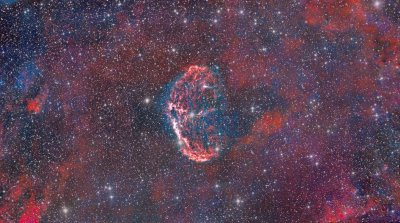
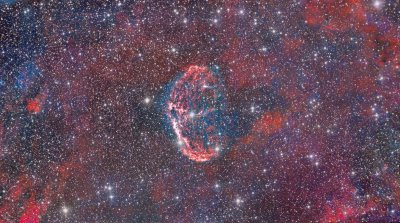
Deploy Web App da Album Astronomico

diff --git a/index.html b/index.html
@@ -748,8 +748,8 @@
         "sensore": "Nikon D3200",
         "integrazione": "4h 0m 0s",
         "wikipedia": "https://it.wikipedia.org/wiki/Pleiadi_(astronomia)",
-        "immagine": "Immagini/web/pleiadi_1.jpg",
-        "miniatura": "Immagini/miniature/pleiadi_1_thumb.jpg"
+        "immagine": "Immagini/pleiadi_1.jpg",
+        "miniatura": "Immagini/Miniature/pleiadi_1_thumb.jpg"
     },
     "M 81": {
         "titolo": "Galassia di Bode",
